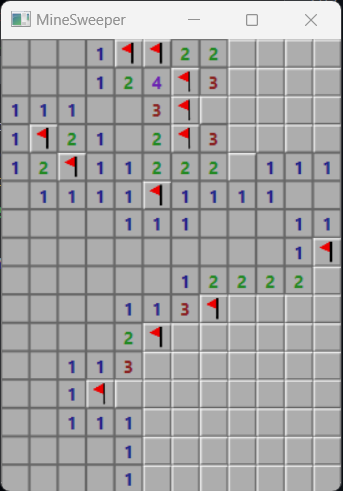
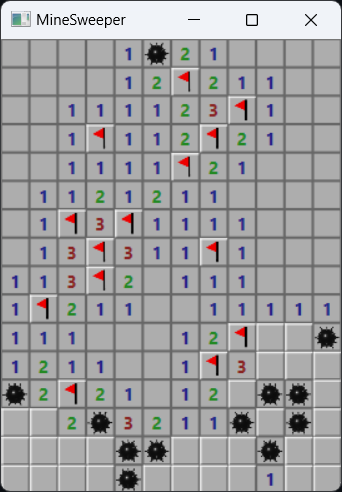
image update

diff --git a/src/gameboard.rs b/src/gameboard.rs
@@ -56,7 +56,7 @@ const NUM_BRUSH: [(f32, f32, f32); 7] = [
     (0.0, 0.65, 1.0),
     (0.0, 0.0, 0.0),
 ];
-
+const MINE_FILE: &HSTRING = w!("mine.png");
 const FLAG_FILE: &HSTRING = w!("flag.png");
 
 pub(crate) enum BoardLevel {
@@ -77,6 +77,7 @@ pub(crate) struct GameBoard<'a> {
     cell_highlight: Option<ID2D1SolidColorBrush>,
     num_brush: [Option<ID2D1SolidColorBrush>; 7],
     flag: Option<ID2D1Bitmap>,
+    mine: Option<ID2D1Bitmap>,
     game: Game,
     cell_width: f32,
     cell_height: f32,
@@ -158,6 +159,7 @@ impl<'a> GameBoard<'a> {
             cell_highlight: None,
             num_brush: [None, None, None, None, None, None, None],
             flag: None,
+            mine: None,
             game,
             cell_width: dpix * CELL_WIDTH as f32,
             cell_height: dpiy * CELL_HEIGHT as f32,
@@ -193,6 +195,7 @@ impl<'a> GameBoard<'a> {
             self.create_render_target()?;
             let target = self.target.as_ref().unwrap();
             self.flag = Some(load_bitmap(FLAG_FILE, target, &self.image_factory)?);
+            self.mine = Some(load_bitmap(MINE_FILE, target, &self.image_factory)?);
             unsafe { target.SetDpi(self.dpix, self.dpiy) };
             self.default_brush = Some(create_brush(target, DEFAULT_COLOR.0, DEFAULT_COLOR.1, DEFAULT_COLOR.2, 1.0)?);
             self.cell_highlight = Some(create_brush(
@@ -251,6 +254,7 @@ impl<'a> GameBoard<'a> {
             self.num_brush[6].as_ref().unwrap(),
         ];
         let flag = self.flag.as_ref().unwrap();
+        let mine = self.mine.as_ref().unwrap();
 
         for x in 0..self.game.width() {
             for y in 0..self.game.height() {
@@ -310,11 +314,21 @@ impl<'a> GameBoard<'a> {
                         }
                     }                     
                     CellState::Known(mined) => {
-                        if !mined {
                             unsafe {
                                 target.FillRectangle(&rect, cell_brush);
                             }
-                        }
+                            if mined {
+                                unsafe {
+                                target.DrawBitmap(
+                                    mine,
+                                    Some(&rect),
+                                    1.0,
+                                    D2D1_BITMAP_INTERPOLATION_MODE_LINEAR,
+                                    None,
+                                );      
+                            }                          
+
+                            }
                     }
                     CellState::Counted(count) => unsafe {
                         let mut mine_count = count;

diff --git a/README.md b/README.md
@@ -1,12 +1,17 @@
 # minesweeper-d2d
 Minesweeper with Rust and Windows Direct2D
 
+# Current Issues
+The ```mine.png``` and ```flag.png``` files need to be in the current path or available through the path environment.
+
 
 # The Game
 
-* 19-OCT-2022 Update
-<p>
-Right click for flagging or questioning potential mine sites has been added. Next will be mine count and Won state.
-</p> 
+### 22-OCT-2022 Update
+Mine image drawn on mined cells. Won game state added.
+
+### 19-OCT-2022 Update
+Right click for flagging or questioning potential mine sites has been added.
+
 
 ![ScreenShot](resources/screenshot-01.png)
